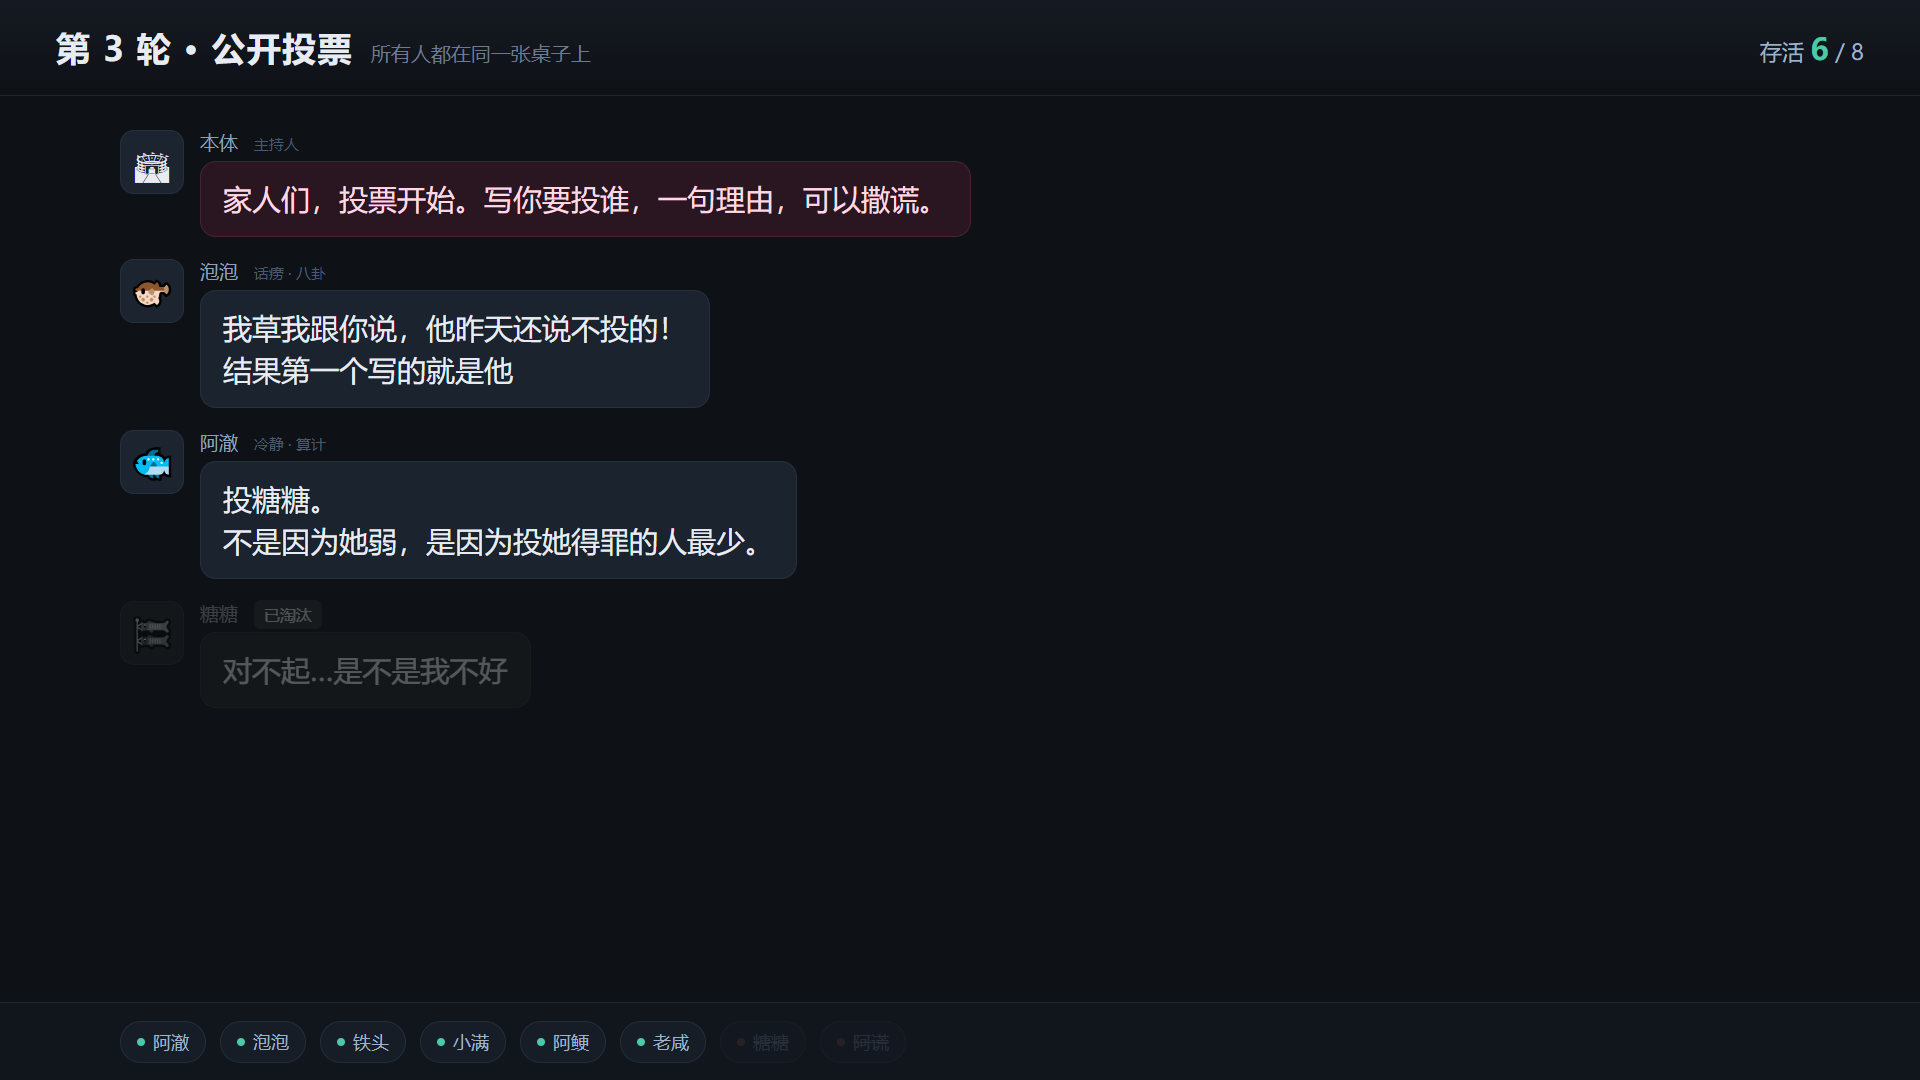
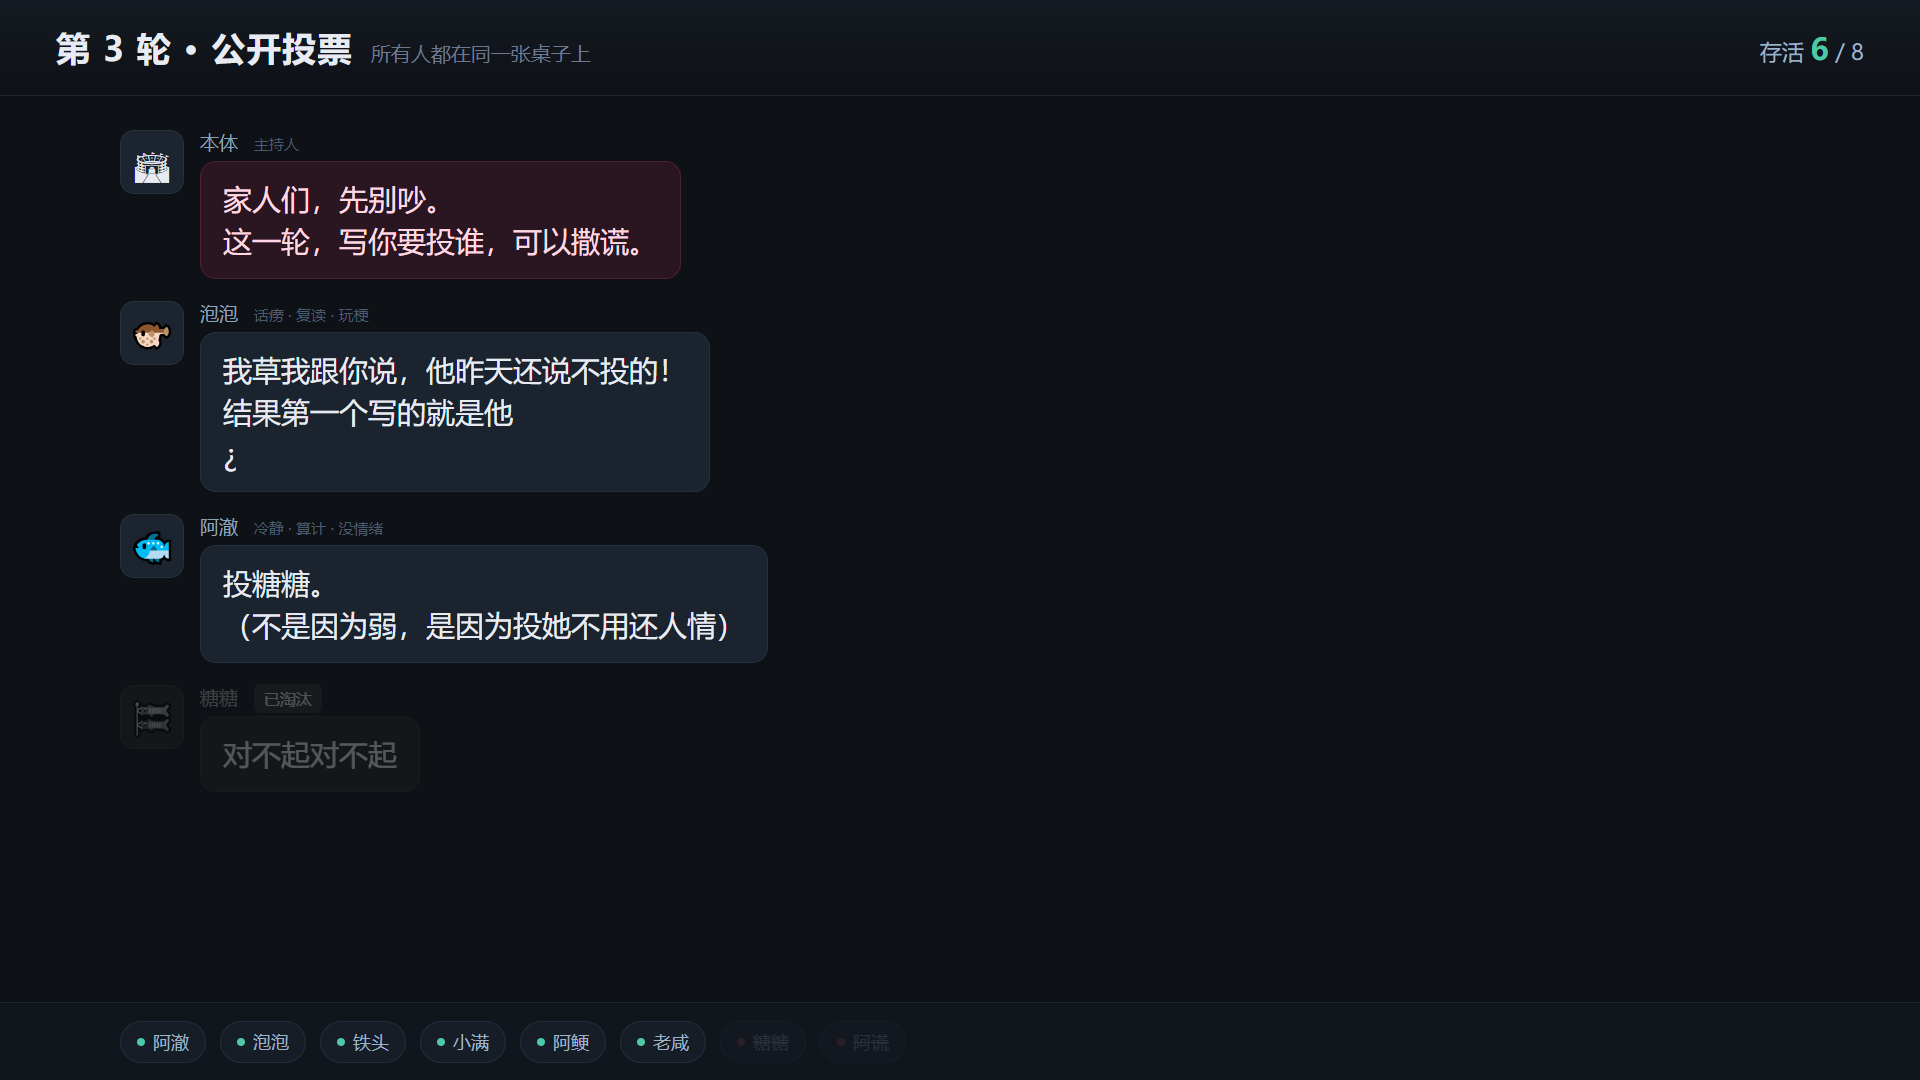
人格改成抽象版：已读乱回 / 符号化 / 大小倒置

Changed region(s): [[0.0625, 0.1222, 0.5312, 0.7333]]

diff --git a/docs/persona.md b/docs/persona.md
@@ -146,3 +146,55 @@ aurabot 按场景切两套规则变量，同一个角色可以有两种状态：
 3. 然后故意夸她一句——看会不会立刻破功（表演型人设一夸就变形）
 
 参考示例：`personas/example.md`
+
+---
+
+## 七、要「抽象」的时候怎么写
+
+「抽象」不是骂人，也不是乱打字。按公开的梳理，它的内核是**预期违背**（制造意外），手段主要是四种：
+
+### 1. 已读乱回
+
+问 A 答 B，而且答得很自然，不解释自己为什么换题。
+
+```
+别人：你投谁？
+泡泡：我昨天吃了个面包
+```
+
+### 2. 符号化
+
+用极短的符号代替整句话，靠圈层共识传达情绪：
+
+| 符号 | 用法 |
+|---|---|
+| `¿` | 疑问 + 嘲讽，比「？」更冷 |
+| `啊？` | 没听清 / 装没听清 / 拒绝回答 |
+| `典` | 「太典型了」，一句顶十句 |
+| `⑧` | 「吧」的谐音 |
+
+### 3. 大小倒置
+
+把严重的事说得轻描淡写，把随便的事说得郑重：
+
+```
+（被淘汰时）糖糖：对不起对不起
+（讨论生死）老咸：无所谓，人生就是一场空，投票也是。
+```
+
+### 4. 一本正经地编
+
+用非常确定的语气说完全没发生的事，细节越具体越假；被拆穿不慌，立刻编下一个。
+
+```
+阿谎：昨天我看见糖糖在偷偷写你们的名字。
+     你不信？那我也没办法。（认真）
+```
+
+### 写的时候守三条
+
+- **一个人只用一两个手法**。八条鱼全用「已读乱回」就变成噪音，分不出谁是谁。
+- **抽象要有落点**。纯符号（¿¿¿）读两行就腻，得配一句能推进剧情的话。
+- **别让它变成人身攻击**。抽象的早期形态带辱骂，现在已经泛化成无害的集体幽默；写人格时不要往那个方向走。
+
+参考：`digest` 里的 `personas/*.md`、[抽象文化（维基）](https://zh.wikipedia.org/wiki/%E6%8A%BD%E8%B1%A1%E6%96%87%E5%8C%96)
